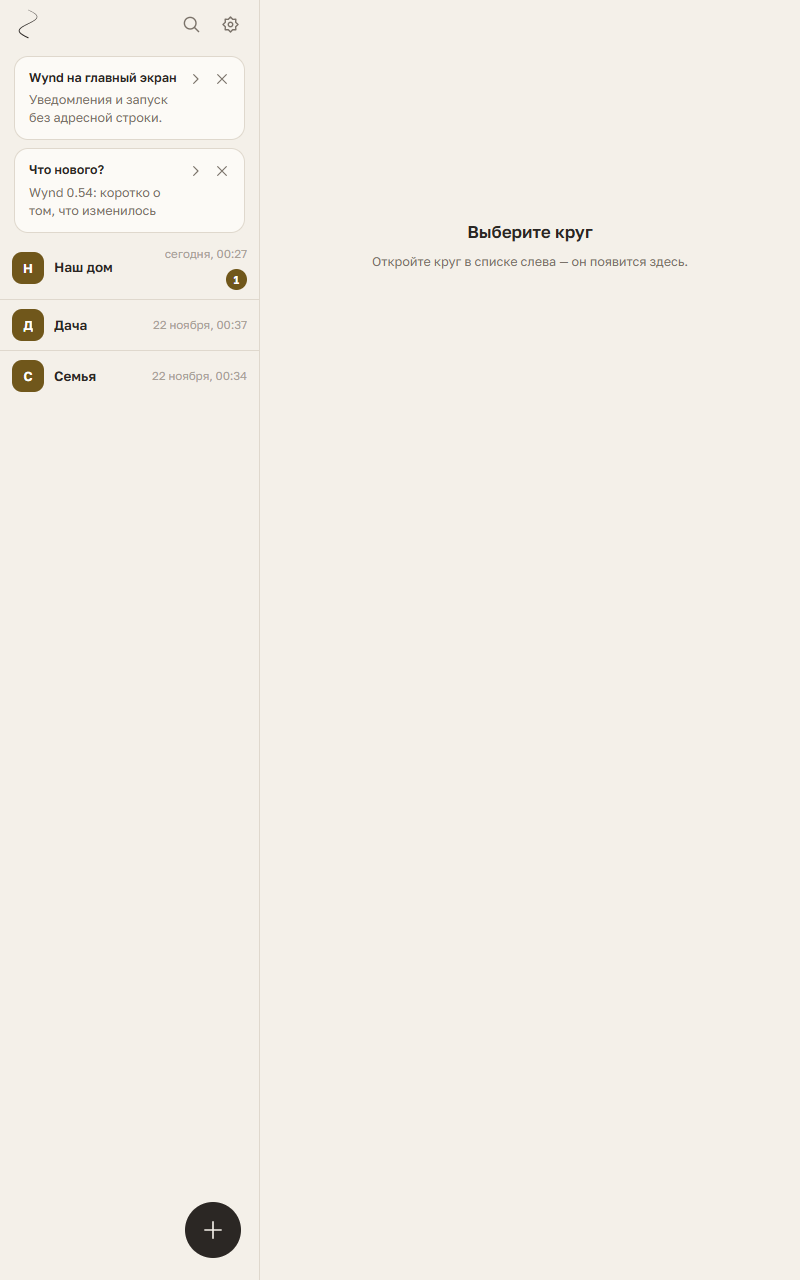
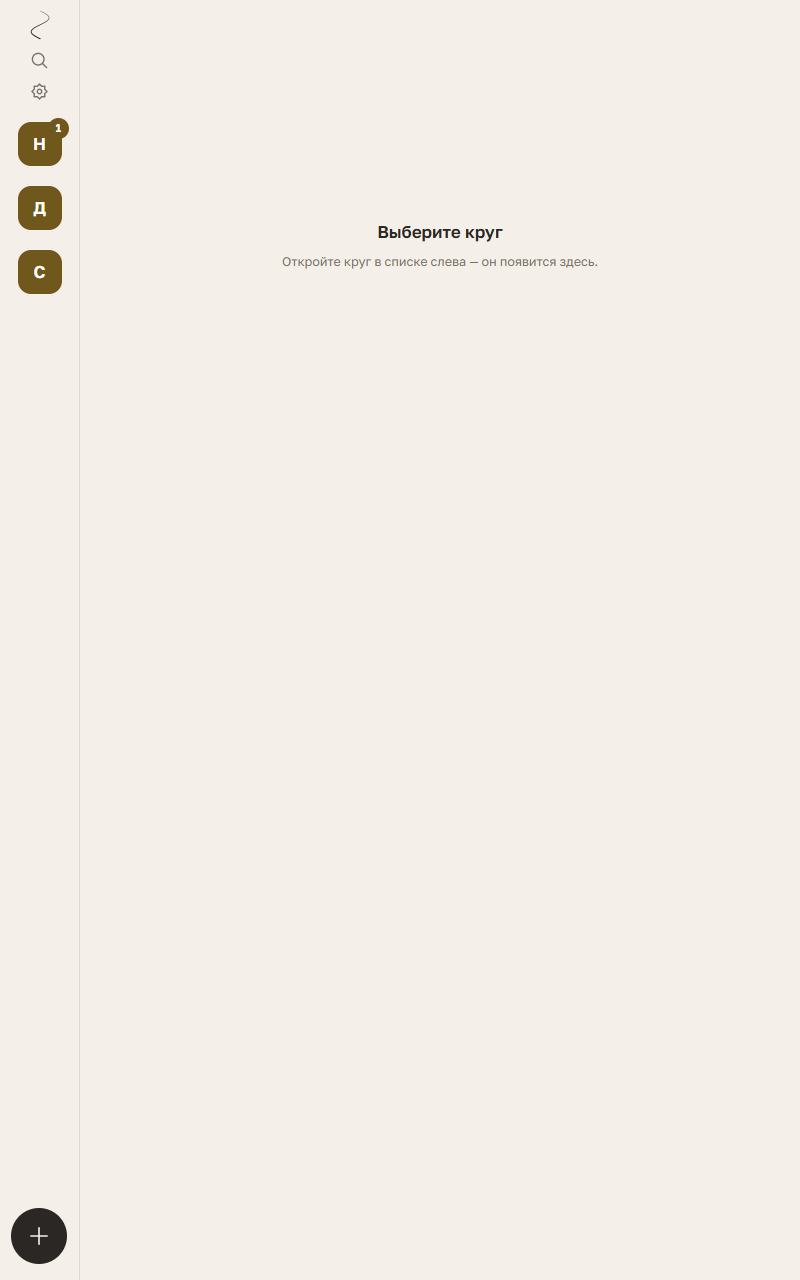
План 75: рейл аватаров на планшете — кадры и протокол

diff --git a/web/src/lib/styles/ui.css b/web/src/lib/styles/ui.css
@@ -196,6 +196,23 @@
 	right: 12px;
 	bottom: 16px;
 }
+/* Меню плюса и карточка долгого нажатия шире рейла: пока они открыты,
+   колонка временно становится обычной, чтобы меню не обрезалось. */
+.ph.app.split.rail:has(.split-side .fab-menu),
+.ph.app.split.rail:has(.split-side .circle-row-card) {
+	--split-side-w: 260px;
+	max-width: 980px;
+}
+.ph.app.split.rail:has(.split-side .fab-menu) .split-side .appbar,
+.ph.app.split.rail:has(.split-side .circle-row-card) .split-side .appbar {
+	flex-direction: row;
+	gap: 18px;
+	padding: 9px 18px;
+}
+.ph.app.split.rail:has(.split-side .fab-menu) .split-side .appbar .sp,
+.ph.app.split.rail:has(.split-side .circle-row-card) .split-side .appbar .sp {
+	display: block;
+}
 /* Пустая улочка в рейл не влезает: без кругов колонка остаётся полной. */
 .ph.app.split.rail:has(.split-side .empty-state) {
 	--split-side-w: 340px;

diff --git a/docs/plans/75-wide-circles.plan.md b/docs/plans/75-wide-circles.plan.md
@@ -1,13 +1,13 @@
 # 75 — Широкий экран: список кругов слева, открытый круг справа
 
 **Тип:** новая задача (владелец 26.11.2026: «Для широких экранов нужно сделать интерфейс, где слева список кругов, справа открытый круг. Идея понятна?»).
-**Статус:** сделано; вёрстка широкого окна принята 26.11, кадры пустой части и планшета ждут приёмки; живая проверка — на устройствах.
+**Статус:** сделано; вёрстка широкого окна и пустой части принята 26.11, рейл на планшете ждёт приёмки; живая проверка — на устройствах.
 **Обновлено:** 2026-11-26.
 
 ## Решения владельца (26.11)
 
 1. **Где включать:** везде, где позволяет ширина, — браузер/PWA, окно Настольного приложения, Android-планшет.
-2. **Левая колонка:** тот же список кругов, что на улочке. Для промежуточной ширины (например, планшет в книжной ориентации) годится сжатый вид того же списка.
+2. **Левая колонка:** тот же список кругов, что на улочке. Для промежуточной ширины (например, планшет в книжной ориентации) — сжатый вид. Уточнено 26.11 после отклонения строк с именем и временем: «Сжатый понимался, что от кругов там только аватары. Имя в подсказке».
 3. **Без выбранного круга:** правая часть пустая.
 
 ## Основа
@@ -20,18 +20,20 @@
 ## Что сделано
 
 - Улочка вынесена из `routes/circles/+page.svelte` в `$lib/layouts/StreetLayout.svelte` без изменения вида — коммит `e579ac49`. Телефонный экран рендерит её же.
-- Добавлены `layoutMode` (порог 720 px, `$lib/session/layout.svelte.ts`), `CirclesSplitLayout` (`.ph.app.split`), `CircleRow selected`, CSS колонок, сжатого списка и пустой правой части — коммит `4d1b974c`.
+- Добавлены `layoutMode` (пороги 720 и 1060 px, `$lib/session/layout.svelte.ts`), `CirclesSplitLayout` (`.ph.app.split`), `CircleRow selected`, CSS колонок и пустой правой части — коммиты `4d1b974c`, `6b35ad1f`.
 - `/circles/+layout.svelte` на широком окне собирает обе колонки; `/circles/+page.svelte` без выбора не монтирует список второй раз, правая часть пустая. `/circles/new` и `/circles/{id}/join` остаются одноколоночными.
 - Проверки: `check:ui` OK; `svelte-check` 0/0; 714 тестов; сборка клиента прошла.
 - Замечание владельца 26.11: у трёх кругов слева была полоса прокрутки. Причина — верхний отступ первого баннера схлопывался через обёртку `.minh-full`, она уезжала на 8 px и «переполняла» себя; Edge вдобавок рисует полосу без переполнения. Исправлено: `display: flow-root` у обёртки и скрытие полосы, пока список помещается (`5babe847`, `ab68244f`).
+- Промежуточный вид со строками отклонён 26.11 («Нет. Сжатый понимался, что от кругов там только аватары. Имя в подсказке»). Сделан рейл 80 px: только аватары, имя — `title`/`aria-label`, число новых на аватаре; полный список — от 1060 px (`cff48553`, `6b35ad1f`). Меню плюса и карточка долгого нажатия при открытии временно расширяют рейл, чтобы не обрезаться.
 
 ## Что меняется
 
 Только компоновка на широком окне. Содержимое, тексты, цвета, шрифты, размеры строк и действий, поведение на телефоне не меняются.
 
 - **Порог.** До 720 CSS px — как сейчас (одна колонка). От 720 px — две колонки: слева список, справа круг.
-- **Ширина.** 720–999 px: левая колонка 260 px, строки сжатые (без строки последней записи, знак меньше). От 1000 px: левая колонка 340 px, полный вид строк. Правой колонке — остальное, но не шире 720 px; общая ширина двух колонок не больше 1060 px, дальше поля по бокам.
-- **Левая колонка** — та же улица: `AppBar` со знаком Wynd, поиск и настройки, полоса связи, список с закреплёнными, группами и остальными, плюс внизу. Открытый круг отмечен в списке: подложка `--tint` и полоска цвета круга слева у строки.
+- **Ширина.** 720–1059 px: левая колонка — рейл 80 px, от кругов только аватары, имя в подсказке; справа круг 720 px, общая ширина 800 px. От 1060 px: слева полный список 340 px, справа круг 720 px, всего 1060 px; дальше поля по бокам.
+- **Левая колонка (полный вид)** — та же улица: `AppBar` со знаком Wynd, поиск и настройки, полоса связи, список с закреплёнными, группами и остальными, плюс внизу. Открытый круг отмечен в списке: подложка `--tint` и полоска цвета круга слева у строки.
+- **Левая колонка (рейл)** — шапка столбиком (знак, поиск, настройки), ниже только квадраты-аватары кругов с числом новых; имя — в подсказке при наведении и у экранного чтеца. Баннеры, заголовки разделов и группы в рейле скрыты; порядок кругов сохранён. Если кругов нет, колонка остаётся полной — пустой улочке нужна ширина.
 - **Правая колонка** — тот же круг: `CircleBar` с вкладками, лента/дни/сетка/карта/отклики, полоса комментария. Шапка круга остаётся со стрелкой «Назад»: она закрывает круг и оставляет пустую правую часть, как на телефоне ведёт к списку. Правило C89 не меняется.
 - **Без выбора** (открыт `/circles`): справа пустое состояние `EmptyState` — заголовок «Выберите круг» и одна подсказка. Автоматически первый круг не открывается.
 - **Навигация и адрес.** Адреса прежние: `/circles`, `/circles/{id}` и вкладки. Открытие круга из списка на широком экране не уводит со списка: левая колонка остаётся и не теряет прокрутку. Прямая ссылка и перезагрузка показывают обе колонки с выбранным кругом. «Назад» браузера из круга возвращает к пустой правой части.
@@ -45,11 +47,11 @@
 |-----|------|-------|
 | `StreetLayout` — вынести улочку из `routes/circles/+page.svelte` без изменения вида | `$lib/layouts` | та же улица стоит и целым экраном на телефоне, и левой колонкой на широком |
 | `CirclesSplitLayout` — каркас двух колонок на `PhoneFrame app split` | `$lib/layouts` | одна точка раскладки: боковая колонка и содержимое |
-| `layoutMode` — ширина окна (`matchMedia`, порог 720 px) | `$lib/session/layout.svelte.ts` | на телефоне боковая колонка не монтируется вовсе |
-| `CircleRow selected` — выбранная строка | существующий компонент | видно, какой круг открыт справа |
-| `.ph.app.split`, `.split-side`, `.split-main`, сжатые строки, пустая колонка | `$lib/styles/ui.css` | раскладка, ширины, сжатый вид, оверлеи |
+| `layoutMode` — ширина окна (`matchMedia`, пороги 720 и 1060 px) | `$lib/session/layout.svelte.ts` | на телефоне боковая колонка не монтируется; рейл и полный список — по ширине |
+| `CircleRow selected` — выбранная строка, `hint` — имя в подсказке и для экранного чтеца | существующий компонент | видно, какой круг открыт; в рейле имя не строкой |
+| `.ph.app.split`, `.split-side`, `.split-main`, `.rail`, пустая колонка | `$lib/styles/ui.css` | раскладка, ширины, рейл, оверлеи |
 
-Новых `.svelte` в `$ui` не появляется; сжатый вид строки — CSS под `.split-side`, а не второй компонент.
+Новых `.svelte` в `$ui` не появляется; рейл — CSS и пропсы `StreetLayout`/`CircleRow`, а не второй компонент списка.
 
 ## Порядок
 
@@ -57,18 +59,18 @@
 2. Добавить `layoutMode`, `CirclesSplitLayout`, выбранную строку и раскладку; подключить в `/circles/+layout.svelte` и `/circles/+page.svelte`.
 3. Собрать клиент, поднять стенд с данными, снять настоящий рендер: широкое окно 1200 × 800 и планшет 800 × 1280.
 4. Показать владельцу по одному кадру, дождаться «принимаем».
-5. Живые проверки: окно Настольного (760 px — сжатая левая колонка), планшет Android в книжной и альбомной ориентации, браузер на широком окне; запись в реестр устройств.
+5. Живые проверки: окно Настольного (760 px — рейл), планшет Android в книжной и альбомной ориентации, браузер на широком окне; подсказка имени, меню плюса и долгое нажатие в рейле; запись в реестр устройств.
 
 ## Кадры
 
-Настоящий рендер клиента из `web/dist` на стенде `dev/wynd-stand-75c.exe` (127.0.0.1:7678, копия `dev/data`), светлая тема; «до» — клиент коммита `00997763` на том же стенде. Headless Edge, CDP, 1200 × 800 и 800 × 1280 CSS px, DPR 1.
+Настоящий рендер клиента из `web/dist` на стенде `dev/wynd-stand-75e.exe` (127.0.0.1:7678, копия `dev/data`), светлая тема; «до» — клиент коммита `00997763` на том же стенде. Headless Edge, CDP, 1200 × 800 и 800 × 1280 CSS px, DPR 1.
 
-Снимки — [протокол с кадрами](../testing/wide-circles-2026-11-26/README.md): [широкое окно, круг открыт](../testing/wide-circles-2026-11-26/wide-open-after.png), [широкое окно без выбора](../testing/wide-circles-2026-11-26/wide-empty-after.png), [планшет в книжной ориентации](../testing/wide-circles-2026-11-26/tablet-open-after.png). Рядом — кадры «до» на тех же размерах.
+Снимки — [протокол с кадрами](../testing/wide-circles-2026-11-26/README.md): [широкое окно, круг открыт](../testing/wide-circles-2026-11-26/wide-open-after.png), [широкое окно без выбора](../testing/wide-circles-2026-11-26/wide-empty-after.png), [планшет: рейл аватаров и круг](../testing/wide-circles-2026-11-26/tablet-open-after.png). Рядом — кадры «до» на тех же размерах.
 
-Вёрстка широкого окна с открытым кругом принята 26.11 («Принимаем»). Пустая правая часть принята с замечанием о лишней полосе прокрутки; после исправления кадр подтверждён 26.11 («Принимаем»). Планшет в книжной ориентации — следом.
+Вёрстка широкого окна с открытым кругом принята 26.11 («Принимаем»). Пустая правая часть принята с замечанием о лишней полосе прокрутки; после исправления кадр подтверждён 26.11 («Принимаем»). Промежуточный вид со строками отклонён; рейл аватаров ждёт приёмки.
 
 ## Открыто
 
-- Приёмка кадров пустой правой части и планшета в книжной ориентации (по одному).
-- Живые проверки: окно Настольного (760 — сжатая колонка), планшет в книжной и альбомной ориентации, браузер на широком окне; прокрутка колонок, сохранение места списка, «Назад», `/circles/new` и вступление. Пункт 15 в [реестре устройств](../testing/pending-device-checks.md#15-две-колонки-на-широком-окне-план-75).
+- Приёмка рейла аватаров на планшете.
+- Живые проверки: окно Настольного (760 — рейл), планшет в книжной и альбомной ориентации, браузер на широком окне; подсказка имени, меню плюса и долгое нажатие в рейле, прокрутка колонок, сохранение места списка, «Назад», `/circles/new` и вступление. Пункт 15 в [реестре устройств](../testing/pending-device-checks.md#15-две-колонки-на-широком-окне-план-75).
 - Если владелец захочет, стрелку «Назад» в шапке круга на широком экране можно убрать: список и так виден. Сейчас оставлена — правило C89 одно для всех ширин.

diff --git a/docs/testing/wide-circles-2026-11-26/README.md b/docs/testing/wide-circles-2026-11-26/README.md
@@ -4,21 +4,21 @@
 
 - Улочка: `web/src/routes/circles/+page.svelte` на коммите `00997763` (до плана 75) — каркас `ShellLayout`, строки `CircleRow`.
 - Круг: `web/src/lib/layouts/CircleLayout.svelte`, `CircleBar` на том же коммите.
-- «До» снято с клиента коммита `00997763`; «после» — с `ab68244f` (план 75: каркас двух колонок и правка полосы прокрутки).
+- «До» снято с клиента коммита `00997763`; «после» — с `6b35ad1f` (план 75: две колонки, рейл аватаров, правка полосы прокрутки). Широкие кадры после `ab68244f` не менялись: рейл живёт только до 1060 px.
 
 ## Изменение
 
 - От 720 CSS px — две колонки: слева та же улочка, справа открытый круг. До 720 px всё как было.
-- 720–999 px: левая колонка 260 px, строки без строки последней записи (сжатый вид). От 1000 px: левая 340 px, полный вид строк.
-- Общая ширина — не больше 1060 px (340 + 720), по центру окна.
+- 720–1059 px: слева рейл 80 px — от кругов только аватары, имя в подсказке (`title` и `aria-label`), число новых — на аватаре. От 1060 px: полный список 340 px и круг 720.
+- От 1060 px общая ширина — 1060 px (340 + 720) по центру окна; до 1060 — 800 px (80 + 720), тоже по центру.
 - Открытый круг отмечен в списке подложкой и полоской своего цвета; без выбора справа `EmptyState` «Выберите круг».
-- Сам круг не менялся: на широком окне он остаётся 720 px, как на планшете до правки; на 800 px сужается до 540 px из-за списка.
+- Сам круг не менялся: и на широком окне, и на планшете в книжной ориентации он 720 px — рейл отдаёт ему всю оставшуюся ширину.
 - `/circles/new` и `/circles/{id}/join` остаются одноколоночными.
 - Полоса прокрутки в левой колонке — только когда строки не помещаются. Причина лишней полосы: верхний отступ первого баннера схлопывался через обёртку списка, обёртка высотой 100 % уезжала вниз на 8 px и «переполняла» себя пустым местом; плюс Edge рисует полосу даже без переполнения. Исправлено `5babe847` (скрывать, пока нечего прокручивать) и `ab68244f` (`display: flow-root` у `.minh-full`).
 
 ## Рендер
 
-- Стенд: `dev/wynd-stand-75c.exe` — чистая сборка коммита `ab68244f` (клиент `web/dist` после `npm run build`), `127.0.0.1:7678`, данные — копия `dev/data` (`dev/frame75-data`), вход `anya@example.com`, светлая тема.
+- Стенд: `dev/wynd-stand-75e.exe` — чистая сборка коммита `6b35ad1f` (клиент `web/dist` после `npm run build`), `127.0.0.1:7678`, данные — копия `dev/data` (`dev/frame75-data`), вход `anya@example.com`, светлая тема.
 - «До»: клиент коммита `00997763`, vite dev `127.0.0.1:5181` с прокси `/api` на тот же стенд 7678, те же данные и профиль входа.
 - Между «до» и «после» на улочке изменены баннеры отдельной задачей плана 74 (`826c8db3`, `c8c4f1f4`, `bfc85218`): другой порядок и текст. К компоновке плана 75 это не относится; круг справа не менялся.
 - Браузер: headless Edge, CDP, `Emulation.setDeviceMetricsOverride`; 1200 × 800 и 800 × 1280 CSS px, DPR 1, масштаб 100 %, тема светлая.
@@ -36,7 +36,7 @@
 ## Осмотр
 
 - «После», широкое: слева улочка с шапкой, баннерами и тремя кругами; отмечен «Наш дом». Полосы прокрутки у короткого списка нет. Справа тот же круг «Наш дом» с вкладками и лентой, ширина ленты 720 px не изменилась. Полоса комментария на месте. Пустое состояние — заголовок и подсказка по центру правой части.
-- «После», планшет: сжатый список (только имя, время и число новых), круг 540 px; фото и карточки не обрезаны, полоса комментария на месте.
+- «После», планшет: слева рейл 80 px — только аватары «Наш дом», «Дача», «Семья», у выбранного подложка и полоска цвета, число новых на аватаре; имена в подсказке (в DOM проверены `title` и `aria-label`). Справа круг 720 px; фото и карточки не обрезаны, полоса комментария на месте. До 1000 px рейл, от 1060 px — полный список: между ними окно уже вмещает оба списка.
 - «До» на тех же размерах: одна колонка 720 px по центру, круга в списке нет. Содержимое круга совпадает с «после» один в один при той же ширине 720.
 - Телефон (меньше 720 px) в кадрах не снимался: ветка не менялась, боковая колонка при этой ширине не монтируется.
 
@@ -44,7 +44,7 @@
 
 - `npm run check:ui` — OK (сторож компонентов, шапок, зазоров).
 - `npm run check` — 0 ошибок, 0 предупреждений.
-- `npm test` — 714 тестов, все зелёные; новый `layout.svelte.test.ts` проверяет порог 720 px и снятие слушателя.
+- `npm test` — все тесты зелёные; `layout.svelte.test.ts` проверяет три раскладки по порогам 720 и 1060 px и снятие слушателей.
 - `npm run build` — сборка клиента прошла; из неё собран стенд.
 - Границы: кадр и тесты не проверяют прокрутку колонок, сохранение места списка при смене круга, поведение «Назад» и живые устройства. Это пункты 15 реестра [проверок на устройствах](../pending-device-checks.md#15-две-колонки-на-широком-окне-план-75).
 
@@ -52,4 +52,6 @@
 
 Смысл согласован 26.11: две колонки везде, где позволяет ширина; тот же список, для промежуточной ширины — сжатый; без выбора справа пусто.
 
-Вёрстка широкого окна с открытым кругом принята 26.11 («Принимаем»). Пустая правая часть принята с замечанием о полосе прокрутки; после исправления (`5babe847`, `ab68244f`) исправленный кадр подтверждён 26.11 («Принимаем»). Планшет в книжной ориентации ждёт приёмки следом.
+Вёрстка широкого окна с открытым кругом принята 26.11 («Принимаем»). Пустая правая часть принята с замечанием о полосе прокрутки; после исправления (`5babe847`, `ab68244f`) исправленный кадр подтверждён 26.11 («Принимаем»).
+
+Промежуточный вид со строками (260 px, имя и время) отклонён 26.11: «Нет. Сжатый понимался, что от кругов там только аватары. Имя в подсказке». Сделан рейл аватаров (`cff48553`, `6b35ad1f`); вёрстка планшета ждёт приёмки.

diff --git a/docs/testing/pending-device-checks.md b/docs/testing/pending-device-checks.md
@@ -357,9 +357,9 @@ AAB собирать из `android-v0.1.5` или новее, редакция `
 
 ## 15. Две колонки на широком окне (план 75)
 
-Кадры и метод — [проверка плана 75](wide-circles-2026-11-26/README.md). Вёрстка ждёт «принимаем»; проверки ниже — после приёмки и выпуска.
+Кадры и метод — [проверка плана 75](wide-circles-2026-11-26/README.md). Широкое окно и пустая часть приняты; рейл аватаров ждёт приёмки; проверки ниже — после приёмки и выпуска.
 
-- [ ] **Окно Настольного 760 × 780 и 1000 × 660.** При 760 — сжатый список 260 px (имя, время, число новых; строки последней записи нет), справа пусто «Выберите круг». При 1000 — полный список 340 px. Круг открывается справа, список остаётся на своём месте. Прямая ссылка `/circles/{id}` и перезагрузка показывают обе колонки с отмеченной строкой. «Назад» в шапке круга закрывает круг, справа снова пусто.
-- [ ] **Планшет SM-T725, книжная и альбомная ориентация.** Книжная (около 800 px) — сжатый список 260 и круг 540; альбомная — полный список 340 и круг 720. Колонки прокручиваются независимо; смена круга открывает ленту сверху; место списка сохраняется.
+- [ ] **Окно Настольного 760 × 780 и 1060 × 660.** При 760 — рейл аватаров 80 px (только квадраты, имя в подсказке при наведении, число новых на аватаре), справа пусто «Выберите круг». При 1060 — полный список 340 px. Круг открывается справа, список остаётся на своём месте. Прямая ссылка `/circles/{id}` и перезагрузка показывают обе колонки с отмеченной строкой. «Назад» в шапке круга закрывает круг, справа снова пусто.
+- [ ] **Планшет SM-T725, книжная и альбомная ориентация.** Книжная (около 800 px) — рейл 80 и круг 720; альбомная — полный список 340 и круг 720. Подсказка имени, меню плюса и карточка долгого нажатия в рейле не обрезаются. Колонки прокручиваются независимо; смена круга открывает ленту сверху; место списка сохраняется.
 - [ ] **Браузер на широком окне, от 1060 px.** Две колонки по центру, по бокам поля; круг остаётся 720. `/circles/new` и `/circles/{id}/join` — без колонок, как раньше.
 - [ ] **Телефон, меньше 720 px.** Ничего не изменилось: список целым экраном, круг целым экраном, «Назад» ведёт в список.
